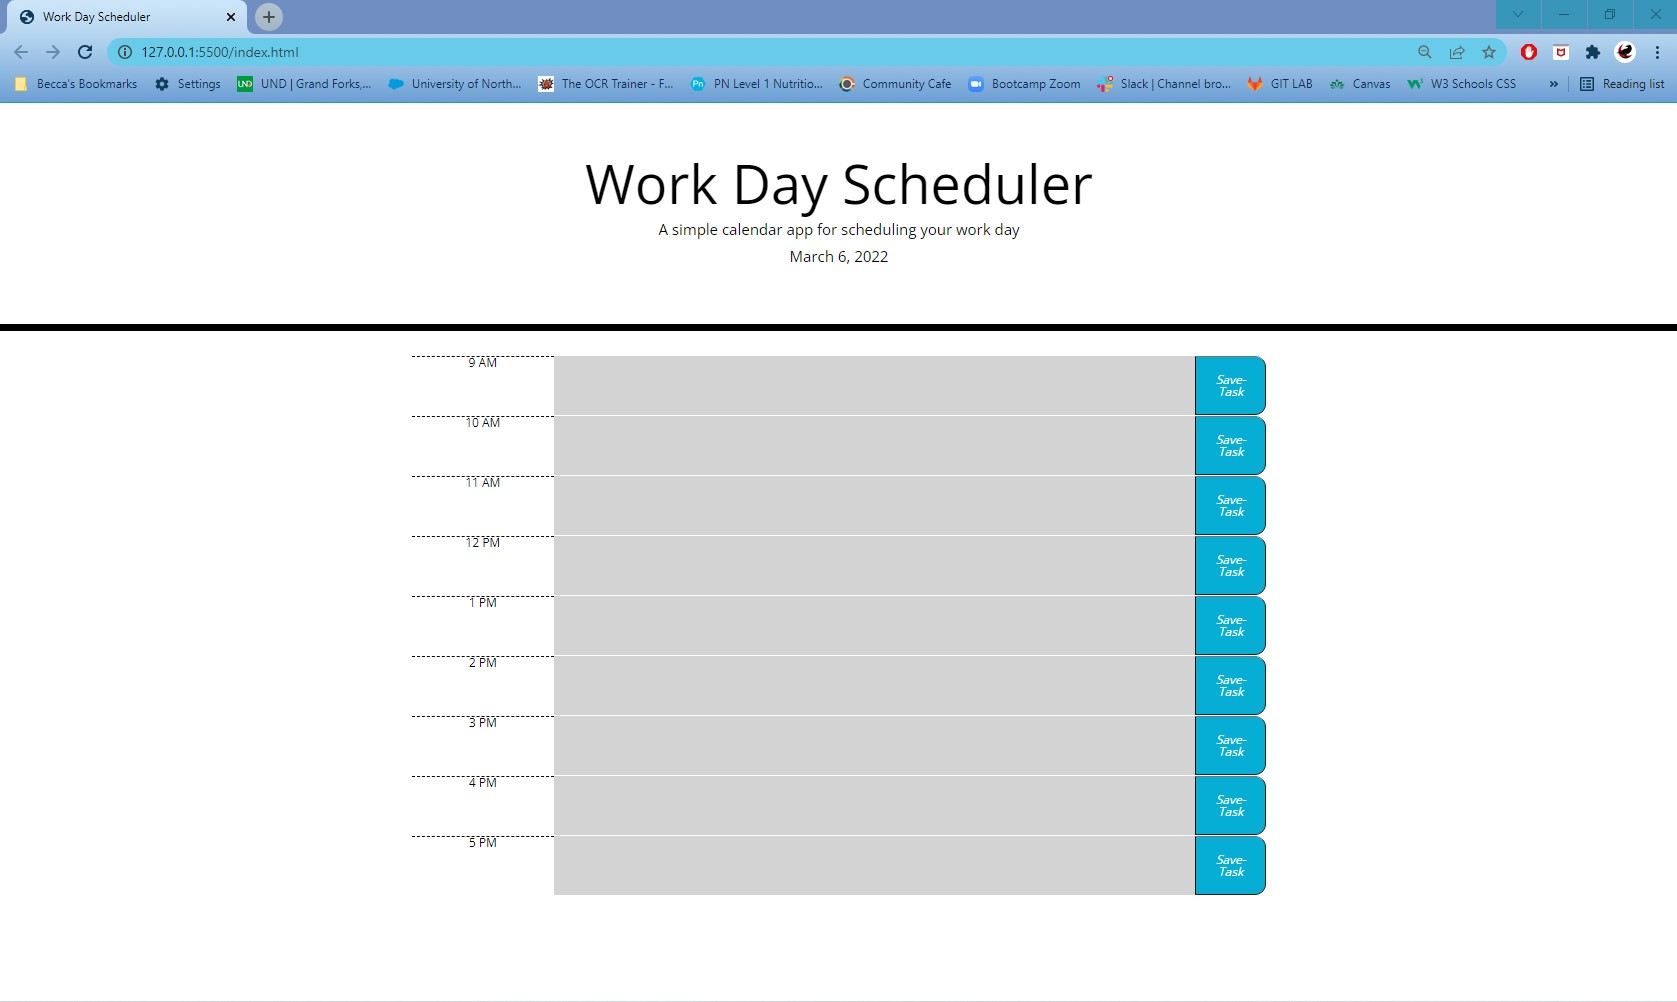
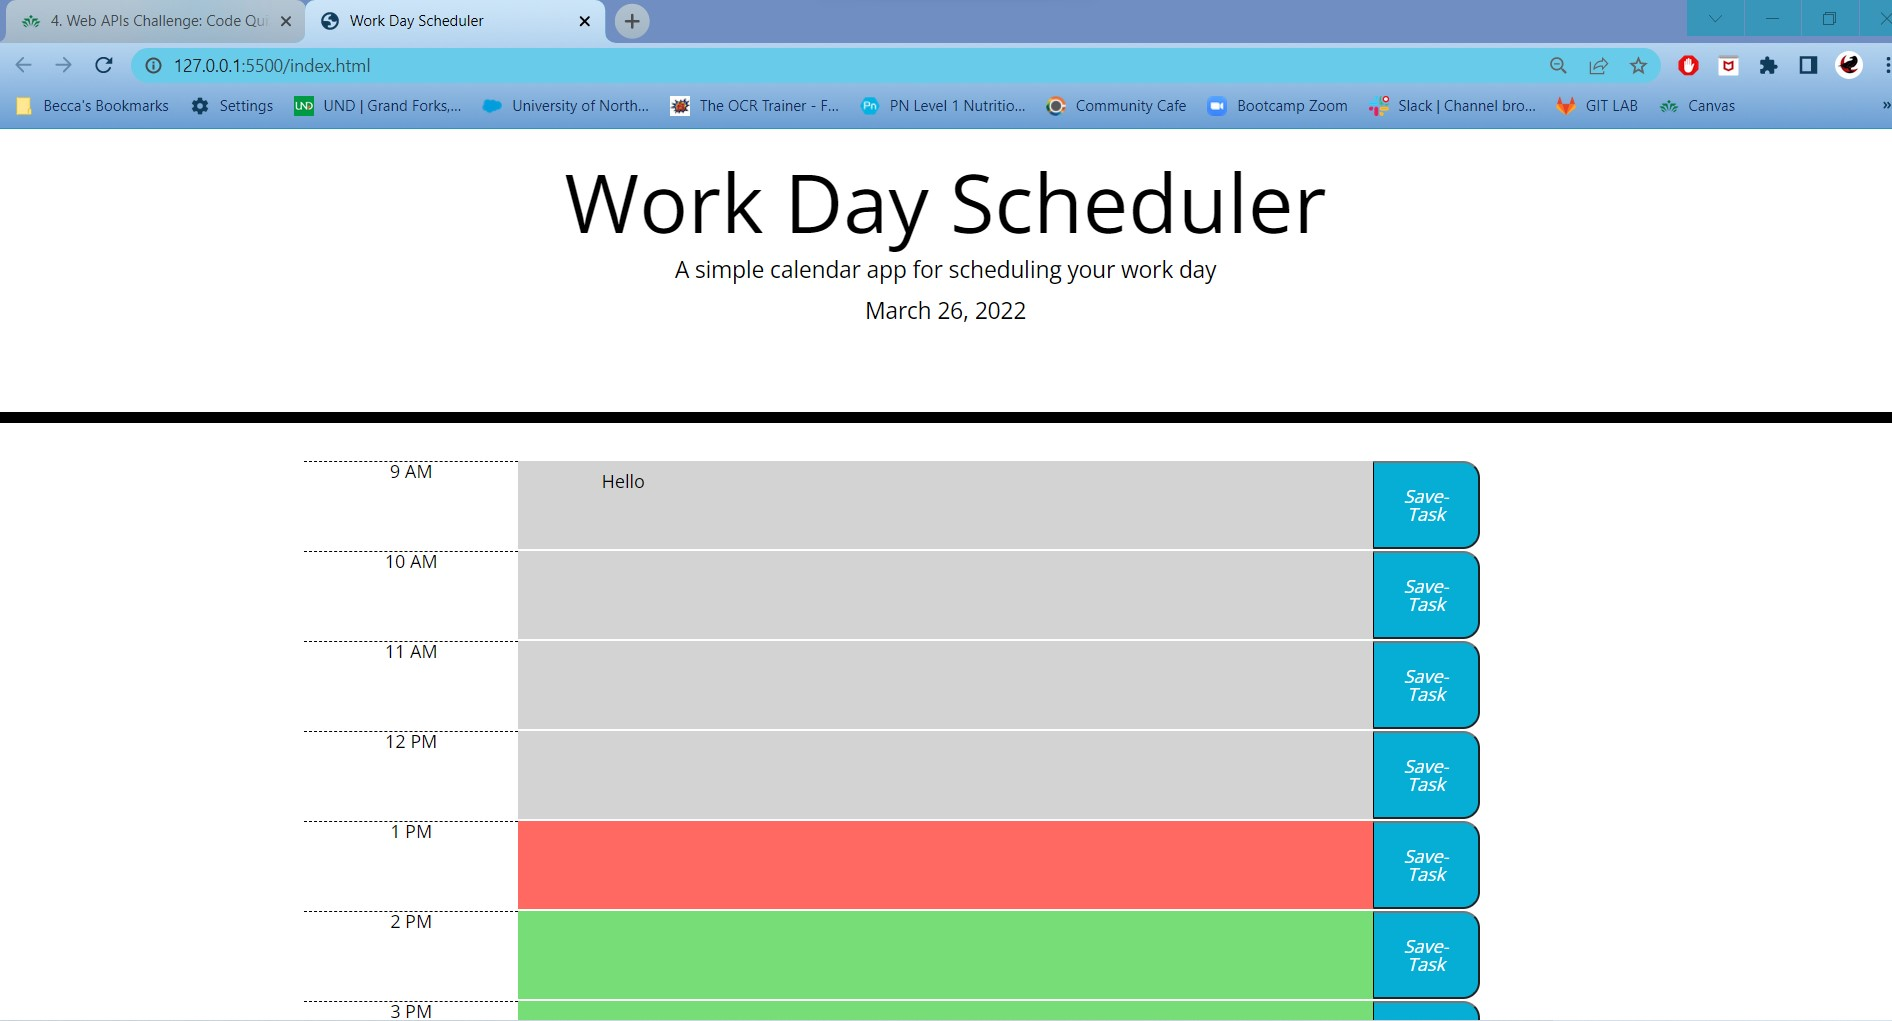
update styling and complete functionality

Changed region(s): [[0.0, 0.1547, 1.0, 1.0], [0.0, 0.0, 1.0, 0.1238]]

diff --git a/assets/css/style.css b/assets/css/style.css
@@ -9,8 +9,9 @@ body {
     border: none;
     resize: none;
     color: #000000;
-    border-left: 1px solid black;
     padding: 10px;
+    width: 37vw;
+    height: 4vw;
   }
   
   .jumbotron {
